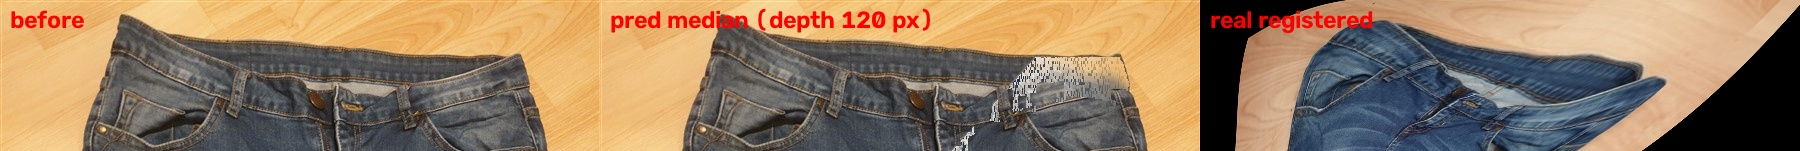
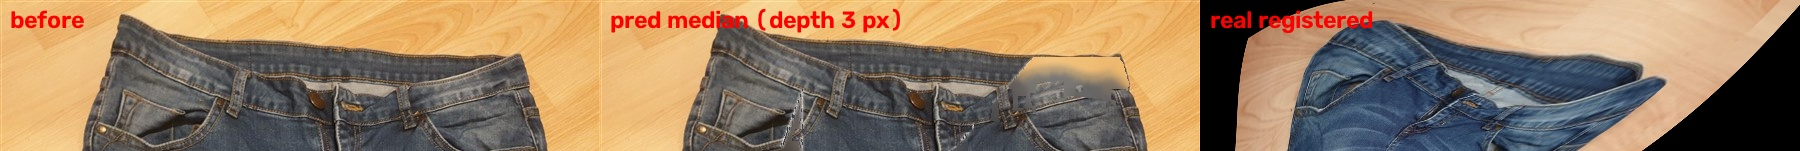
run_pair: plausibility gate on the SAM fringe mask (thin band only); phone-resolution synthetic pair verified

diff --git a/tools/run_pair.py b/tools/run_pair.py
@@ -137,6 +137,12 @@ if not a.after_lm: use = [n for n in use if not n.startswith("knee")]     # auto
 real, rmask, resid = warp_after_to_before(af, amask, lma, lmb, bf.shape, use=use)
 fr_after = segment_fringe(seg, af, amask); fr_before = None
 if fr_after is not None and fr_after.sum() > 50:
+    # plausibility: a fringe is a thin band. Median column depth (tip - first fringe row) must be < 15% of garment height,
+    # otherwise SAM grabbed fabric (happens on clean hems and at high resolution) -> fall back to the mask/colour edge.
+    rows_a = np.nonzero(amask.any(axis=1))[0]; gh_ = rows_a.max() - rows_a.min()
+    dcols = [np.nonzero(amask[:, x])[0].max() - np.nonzero(fr_after[:, x])[0].min() for x in range(amask.shape[1]) if amask[:, x].any() and fr_after[:, x].any()]
+    if dcols and np.median(dcols) > 0.15 * gh_: FLAGS.append(f"SAM fringe mask rejected: median depth {np.median(dcols):.0f}px > 15% of garment height {gh_}px"); fr_after = None
+if fr_after is not None and fr_after.sum() > 50:
     _, fr_before, _ = warp_after_to_before(af, fr_after, lma, lmb, bf.shape, use=use); cv2.imwrite(f"{O}/fringe_mask.png", fr_before.astype(np.uint8) * 255)
 legs = estimate_hems(rmask, bmask, lmb, real_img=real, fringe_mask=fr_before)
 fringe_src = "SAM" if fr_before is not None else "colour split"

diff --git a/experiments/pairs/SUMMARY.md b/experiments/pairs/SUMMARY.md
@@ -2,7 +2,7 @@
 
 | page | title | after | status | sil IoU pred / crop / no-op | chamfer px pred / crop | edge ΔE pred / crop | fringe IoU pred / no-op |
 |---|---|---|---|---|---|---|---|
-| b630a78c19 | How To Make Jeans Into Shorts The Easy W | after_cut | ok | 0.47 / 0.46 / 0.54 | 210 / 261 | 18.2 / 17.4 | 0.18 / 0.58 |
+| b630a78c19 | How To Make Jeans Into Shorts The Easy W | after_cut | ok | 0.49 / 0.49 / 0.54 | 315 / 320 | 18.8 / 19.1 | 0.01 / 0.55 |
 | 660bef67bf | Cómo hacer shorts con jeans viejos | after_cut | FAIL: REJECT: degenerate cut: removed fraction 0.00 | | | | |
 | 85d48013a2 | Tutorial: Aus Lang mach Kurz – Jeanshose | after_cut | FAIL: REJECT: after: garment touches the frame edge (cropped photo | | | | |
 | 3560e543f6 | How to Cut Jeans into Shorts – DIY Denim | after_cut | FAIL: REJECT: after: garment touches the frame bottom (cropped pho | | | | |
@@ -12,13 +12,13 @@
 | 963fcdd264 | DIY; Mom Jeans to High Waisted Shorts |  | after_cut | FAIL: REJECT: before: widest top row is not a single waistband run | | | | |
 | d52a3ff876 | Under Peach Trees: D.I.Y. Jeans to Short | after_cut | FAIL: REJECT: before: widest top row is not a single waistband run | | | | |
 | 443d1d4658 | Create Kids Couture: Upcycle Old Jeans i | after_cut | ok | 0.92 / 0.92 / 0.59 | 10 / 9 | 18.5 / 18.3 | 0.14 / 0.00 |
-| 3082dfddc1 | DIY style: perfectly distressed jean sho | after_wash | FAIL: REJECT: degenerate cut: removed fraction 0.88 | | | | |
+| 3082dfddc1 | DIY style: perfectly distressed jean sho | after_wash | FAIL: REJECT: degenerate cut: removed fraction 0.87 | | | | |
 | 22a5857a0c | Comment transformer son jeans en short - | after_cut | FAIL: REJECT: after: garment touches the frame edge (cropped photo | | | | |
-| f9c0e56308 | 7 Easy Steps to: DIY Denim Shorts - 51li | after_wash | FAIL: REJECT: degenerate cut: removed fraction 0.76 | | | | |
-| 2691c1a8d0 | Jeans Upcycling: Shorts aus alter Jeans  | after_cut | ok | 0.69 / 0.69 / 0.58 | 32 / 25 | 16.8 / 15.1 | 0.33 / 0.10 |
+| f9c0e56308 | 7 Easy Steps to: DIY Denim Shorts - 51li | after_wash | ok | 0.92 / 0.92 / 0.44 | 35 / 35 | 17.8 / 17.7 | 0.02 / 0.00 |
+| 2691c1a8d0 | Jeans Upcycling: Shorts aus alter Jeans  | after_cut | ok | 0.62 / 0.61 / 0.58 | 47 / 48 | 16.9 / 17.8 | 0.04 / 0.28 |
 | 5cd6cff343 | Transformer un jean en short façon BD -  | after_cut | FAIL: REJECT: before: widest top row is not a single waistband run | | | | |
-| 26b1041d00 | Upcycle Jeans Into Shorts - Sewing Novic | after_cut | ok | 0.75 / 0.69 / 0.73 | 31 / 46 | 30.7 / 34.8 | 0.30 / 0.48 |
-| f542c57cec | DIY High Waisted Denim Shorts, Step-by-S | after_wash | ok | 0.72 / 0.68 / 0.51 | 108 / 128 | 29.2 / 26.8 | 0.26 / 0.22 |
+| 26b1041d00 | Upcycle Jeans Into Shorts - Sewing Novic | after_cut | ok | 0.89 / 0.89 / 0.73 | 3 / 3 | 24.3 / 24.3 | 0.03 / 0.02 |
+| f542c57cec | DIY High Waisted Denim Shorts, Step-by-S | after_wash | ok | 0.86 / 0.86 / 0.51 | 49 / 50 | 28.8 / 28.4 | 0.17 / 0.02 |
 | 2e2063b93f | DIY: Cutoff Shorts - The Fitnessista | after_cut | FAIL: REJECT: after: widest top row is not a single waistband run  | | | | |
 | 964dc8a1f9 | Prudence and Austere: DIY Distressed Den | after_wash | FAIL: REJECT: before: widest top row is not a single waistband run | | | | |
 | e97924ad2d | Doodlecraft: How to Upcycle Jeans into B | after_cut | ok | 0.90 / 0.90 / 0.54 | 1 / 1 | 11.2 / 11.0 | 0.24 / 0.01 |

diff --git a/experiments/pairs/26b1041d00/NOTE.md b/experiments/pairs/26b1041d00/NOTE.md
@@ -1,18 +1,18 @@
 # PAIR — auto pipeline
 
-flags: before garment is short (bermuda/shorts): a short->shorter cut, not jeans->shorts
+flags: SAM fringe mask rejected: median depth 45px > 15% of garment height 274px; before garment is short (bermuda/shorts): a short->shorter cut, not jeans->shorts
 before: /Users/jefferyhuang/denim-twin/data/external/pair_images/26b1041d00_before_62dc9a85.jpg 
 after: /Users/jefferyhuang/denim-twin/data/external/pair_images/26b1041d00_after_cut_38ff38d5.jpg 
 scale: UNKNOWN (1.0 placeholder; mm values are px)
 landmarks: auto / auto (crotch: gap / gap)
-fringe depth used: 45.0 px from measured from after-photo (NOT a prediction); measured on after-photo: 45.0 px (fabric/fringe split: SAM; after-frame)
-hem fit: left: angle -5.4°, depth 64 px, right: angle -0.7°, depth 26 px
+fringe depth used: 0.0 px from measured from after-photo (NOT a prediction); measured on after-photo: 0.0 px (fabric/fringe split: colour split; registered-frame)
+hem fit: left: angle 9.1°, depth 0 px, right: angle -9.5°, depth 0 px
 registration residual (leave-one-landmark-out): 14.59px
 
 | system | sil IoU | chamfer | edge ΔE | fringe IoU |
 |---|---|---|---|---|
-| pred conservative | 0.714 | 39.7 | 32.7 | 0.122 |
-| pred median | 0.751 | 30.8 | 30.7 | 0.296 |
-| pred aggressive | 0.781 | 22.5 | 30.0 | 0.439 |
-| null:no-op | 0.732 | 48.1 | 25.4 | 0.480 |
-| null:crop-only | 0.688 | 46.2 | 34.8 | 0.000 |
+| pred conservative | 0.888 | 2.8 | 24.3 | 0.025 |
+| pred median | 0.888 | 2.8 | 24.3 | 0.033 |
+| pred aggressive | 0.888 | 2.8 | 24.3 | 0.098 |
+| null:no-op | 0.732 | 51.5 | 33.0 | 0.016 |
+| null:crop-only | 0.888 | 2.8 | 24.3 | 0.000 |

diff --git a/experiments/pairs/b630a78c19/NOTE.md b/experiments/pairs/b630a78c19/NOTE.md
@@ -1,18 +1,18 @@
 # PAIR — auto pipeline
 
-flags: after: rotated -10.7° to upright
+flags: after: rotated -10.7° to upright; SAM fringe mask rejected: median depth 254px > 15% of garment height 1190px
 before: /Users/jefferyhuang/denim-twin/data/external/pair_images/b630a78c19_before_54931395.jpg 
 after: /Users/jefferyhuang/denim-twin/data/external/pair_images/b630a78c19_after_cut_c7a4d702.jpg 
 scale: UNKNOWN (1.0 placeholder; mm values are px)
 landmarks: auto / auto (crotch: gap / gap)
-fringe depth used: 307.2 px from measured from after-photo (NOT a prediction); measured on after-photo: 307.2 px (fabric/fringe split: SAM; after-frame)
-hem fit: left: angle -0.7°, depth 6 px, right: angle -20.2°, depth 56 px
+fringe depth used: 4.5 px from measured from after-photo (NOT a prediction); measured on after-photo: 4.5 px (fabric/fringe split: colour split; registered-frame)
+hem fit: left: angle 72.1°, depth 4 px, right: angle 0.1°, depth 5 px
 registration residual (leave-one-landmark-out): 41.30px
 
 | system | sil IoU | chamfer | edge ΔE | fringe IoU |
 |---|---|---|---|---|
-| pred conservative | 0.464 | 231.6 | 17.9 | 0.076 |
-| pred median | 0.474 | 210.2 | 18.2 | 0.179 |
-| pred aggressive | 0.482 | 200.5 | 18.1 | 0.251 |
-| null:no-op | 0.536 | 161.9 | 16.4 | 0.582 |
-| null:crop-only | 0.459 | 260.9 | 17.4 | 0.000 |
+| pred conservative | 0.490 | 318.2 | 18.8 | 0.005 |
+| pred median | 0.490 | 315.4 | 18.8 | 0.012 |
+| pred aggressive | 0.491 | 312.9 | 18.7 | 0.020 |
+| null:no-op | 0.536 | 257.3 | 14.3 | 0.549 |
+| null:crop-only | 0.489 | 320.5 | 19.1 | 0.000 |

diff --git a/experiments/pairs/f542c57cec/NOTE.md b/experiments/pairs/f542c57cec/NOTE.md
@@ -1,18 +1,18 @@
 # PAIR — auto pipeline
 
-flags: before: rotated -13.7° to upright
+flags: before: rotated -13.7° to upright; SAM fringe mask rejected: median depth 793px > 15% of garment height 3231px
 before: /Users/jefferyhuang/denim-twin/experiments/pairs/f542c57cec/cropped_before.png 
 after: /Users/jefferyhuang/denim-twin/data/external/pair_images/f542c57cec_after_wash_9c55600a.jpg 
 scale: UNKNOWN (1.0 placeholder; mm values are px)
 landmarks: auto / auto (crotch: gap / gap)
-fringe depth used: 163.6 px from measured from after-photo (NOT a prediction); measured on after-photo: 163.6 px (fabric/fringe split: SAM; after-frame)
-hem fit: left: angle 1.9°, depth 4 px, right: angle -1.4°, depth 220 px
+fringe depth used: 7.5 px from measured from after-photo (NOT a prediction); measured on after-photo: 7.5 px (fabric/fringe split: colour split; registered-frame)
+hem fit: left: angle 44.8°, depth 2 px, right: angle 24.0°, depth 13 px
 registration residual (leave-one-landmark-out): 61.19px
 
 | system | sil IoU | chamfer | edge ΔE | fringe IoU |
 |---|---|---|---|---|
-| pred conservative | 0.696 | 117.7 | 28.5 | 0.124 |
-| pred median | 0.717 | 107.7 | 29.2 | 0.260 |
-| pred aggressive | 0.730 | 101.4 | 29.5 | 0.343 |
-| null:no-op | 0.514 | 460.8 | 27.8 | 0.224 |
-| null:crop-only | 0.676 | 127.9 | 26.8 | 0.000 |
+| pred conservative | 0.859 | 49.7 | 28.8 | 0.080 |
+| pred median | 0.859 | 49.2 | 28.8 | 0.172 |
+| pred aggressive | 0.860 | 49.1 | 28.8 | 0.236 |
+| null:no-op | 0.514 | 460.8 | 29.8 | 0.022 |
+| null:crop-only | 0.858 | 50.2 | 28.4 | 0.000 |

diff --git a/experiments/pairs/2691c1a8d0/NOTE.md b/experiments/pairs/2691c1a8d0/NOTE.md
@@ -1,18 +1,18 @@
 # PAIR — auto pipeline
 
-flags: none
+flags: SAM fringe mask rejected: median depth 116px > 15% of garment height 386px
 before: /Users/jefferyhuang/denim-twin/data/external/pair_images/2691c1a8d0_before_b9f7f64b.jpg 
 after: /Users/jefferyhuang/denim-twin/data/external/pair_images/2691c1a8d0_after_cut_b2330819.jpg 
 scale: UNKNOWN (1.0 placeholder; mm values are px)
 landmarks: auto / auto (crotch: gap / gap)
-fringe depth used: 120.2 px from measured from after-photo (NOT a prediction); measured on after-photo: 120.2 px (fabric/fringe split: SAM; after-frame)
-hem fit: left: angle -36.4°, depth 2 px, right: angle -48.2°, depth 62 px
+fringe depth used: 2.8 px from measured from after-photo (NOT a prediction); measured on after-photo: 2.8 px (fabric/fringe split: colour split; registered-frame)
+hem fit: left: angle -68.9°, depth 4 px, right: angle -48.9°, depth 2 px
 registration residual (leave-one-landmark-out): 86.85px
 
 | system | sil IoU | chamfer | edge ΔE | fringe IoU |
 |---|---|---|---|---|
-| pred conservative | 0.701 | 22.5 | 15.9 | 0.410 |
-| pred median | 0.686 | 32.4 | 16.8 | 0.326 |
-| pred aggressive | 0.666 | 43.0 | 17.2 | 0.237 |
-| null:no-op | 0.579 | 109.7 | 17.5 | 0.101 |
-| null:crop-only | 0.694 | 25.1 | 15.1 | 0.000 |
+| pred conservative | 0.615 | 47.4 | 16.8 | 0.015 |
+| pred median | 0.617 | 46.8 | 16.9 | 0.039 |
+| pred aggressive | 0.620 | 45.5 | 17.0 | 0.077 |
+| null:no-op | 0.579 | 103.2 | 18.9 | 0.281 |
+| null:crop-only | 0.614 | 47.9 | 17.8 | 0.000 |

diff --git a/experiments/pairs/f9c0e56308/NOTE.md b/experiments/pairs/f9c0e56308/NOTE.md
@@ -1,3 +1,18 @@
-# PAIR — rejected
+# PAIR — auto pipeline
 
-degenerate cut: removed fraction 0.76
+flags: after: touches the edge of a MANUAL crop (second object removed from frame); SAM fringe mask rejected: median depth 260px > 15% of garment height 811px
+before: /Users/jefferyhuang/denim-twin/data/external/pair_images/f9c0e56308_before_5de12702.jpg 
+after: /Users/jefferyhuang/denim-twin/experiments/pairs/f9c0e56308/cropped_after_wash.png 
+scale: UNKNOWN (1.0 placeholder; mm values are px)
+landmarks: auto / auto (crotch: gap / gap)
+fringe depth used: 0.0 px from measured from after-photo (NOT a prediction); measured on after-photo: 0.0 px (fabric/fringe split: colour split; registered-frame)
+hem fit: left: angle 3.0°, depth 0 px, right: angle -11.1°, depth 0 px
+registration residual (leave-one-landmark-out): 139.78px
+
+| system | sil IoU | chamfer | edge ΔE | fringe IoU |
+|---|---|---|---|---|
+| pred conservative | 0.919 | 34.8 | 17.8 | 0.013 |
+| pred median | 0.919 | 34.8 | 17.8 | 0.022 |
+| pred aggressive | 0.918 | 35.0 | 17.9 | 0.044 |
+| null:no-op | 0.436 | 732.4 | 15.2 | 0.002 |
+| null:crop-only | 0.919 | 34.7 | 17.7 | 0.000 |

diff --git a/experiments/pairs/3082dfddc1/NOTE.md b/experiments/pairs/3082dfddc1/NOTE.md
@@ -1,3 +1,3 @@
 # PAIR — rejected
 
-degenerate cut: removed fraction 0.88
+degenerate cut: removed fraction 0.87
